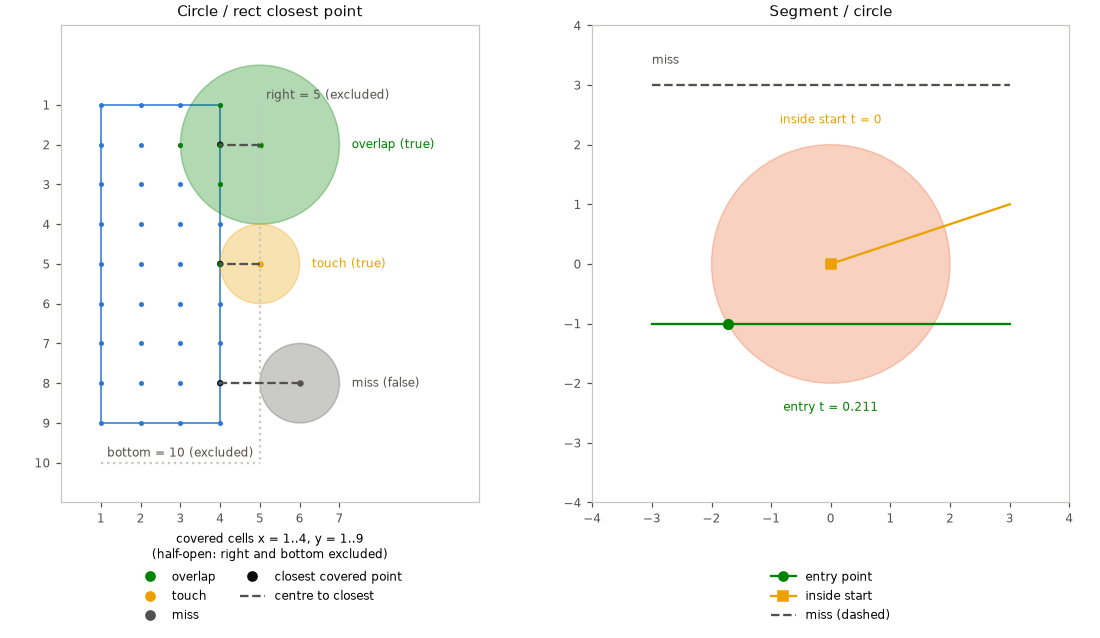
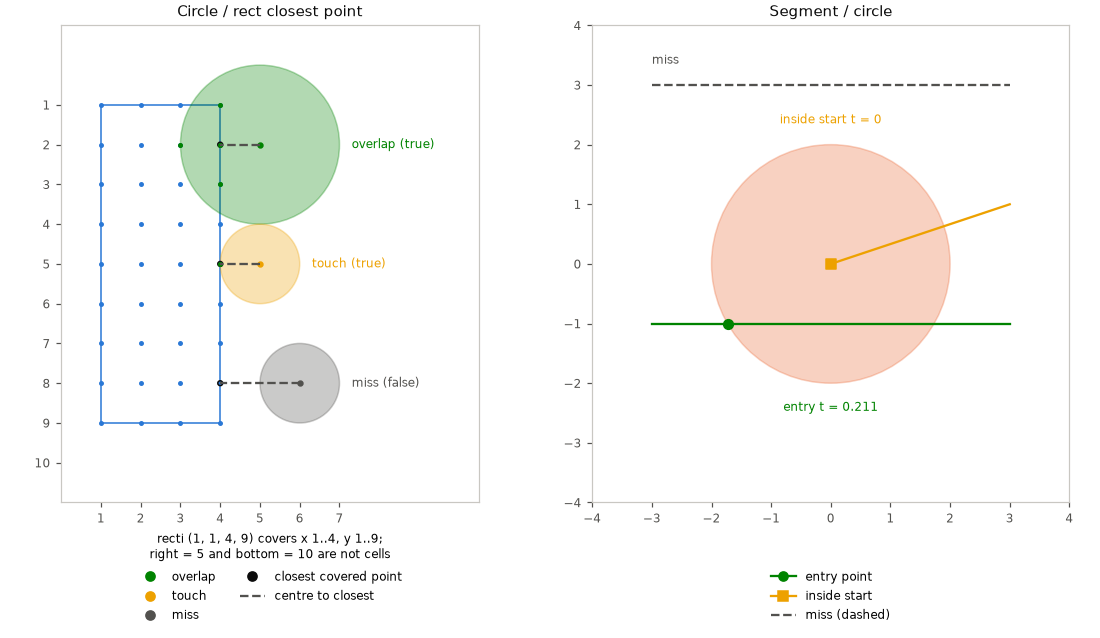
docs: circle figure drops the excluded-edge guides; the caption names them (autana-z852)

diff --git a/launcher/tools/math/geometry_figures.py b/launcher/tools/math/geometry_figures.py
@@ -83,7 +83,6 @@ CIRCLE_SEGMENT_OFFSETS = ((0, -12), (0, 12), (0, 12))
 CIRCLE_LEGEND_OFFSET = -0.12
 CIRCLE_CELL_SIZE = POINT_SIZE / 8
 CIRCLE_CENTRE_SIZE = POINT_SIZE / 4
-CIRCLE_GUIDE_LABEL_OFFSET = (4, 4)
 
 
 def panels(projection=None):
@@ -139,14 +138,8 @@ def circle_figure(data, output):
             axis.scatter(cell_x, cell_y, color=SHAPE_FILL, s=CIRCLE_CELL_SIZE)
     axis.add_patch(Rectangle((x, y), last_x - x, last_y - y,
                              facecolor="none", edgecolor=SHAPE_FILL))
-    axis.plot([x + w, x + w], [y, y + h], color=FAINT, linestyle=":")
-    axis.plot([x, x + w], [y + h, y + h], color=FAINT, linestyle=":")
-    for label, anchor in ((f"right = {x + w} (excluded)", (x + w, y)),
-                          (f"bottom = {y + h} (excluded)", (x, y + h))):
-        axis.annotate(label, anchor, xytext=CIRCLE_GUIDE_LABEL_OFFSET,
-                      textcoords="offset points", fontsize=LABEL_SIZE, color=MUTED)
-    axis.set_xlabel(f"covered cells x = {x}..{last_x}, y = {y}..{last_y}\n"
-                    "(half-open: right and bottom excluded)", fontsize=LABEL_SIZE)
+    axis.set_xlabel(f"recti {tuple(data['rect'])} covers x {x}..{last_x}, y {y}..{last_y};\n"
+                    f"right = {x + w} and bottom = {y + h} are not cells", fontsize=LABEL_SIZE)
     for centre, radius, closest, hit, state, cells in data["circles"]:
         color = BOX_COLORS[("overlap", "touch", "miss").index(state)]
         axis.add_patch(Circle(centre, radius, facecolor=color, edgecolor=color, alpha=SHAPE_ALPHA))
